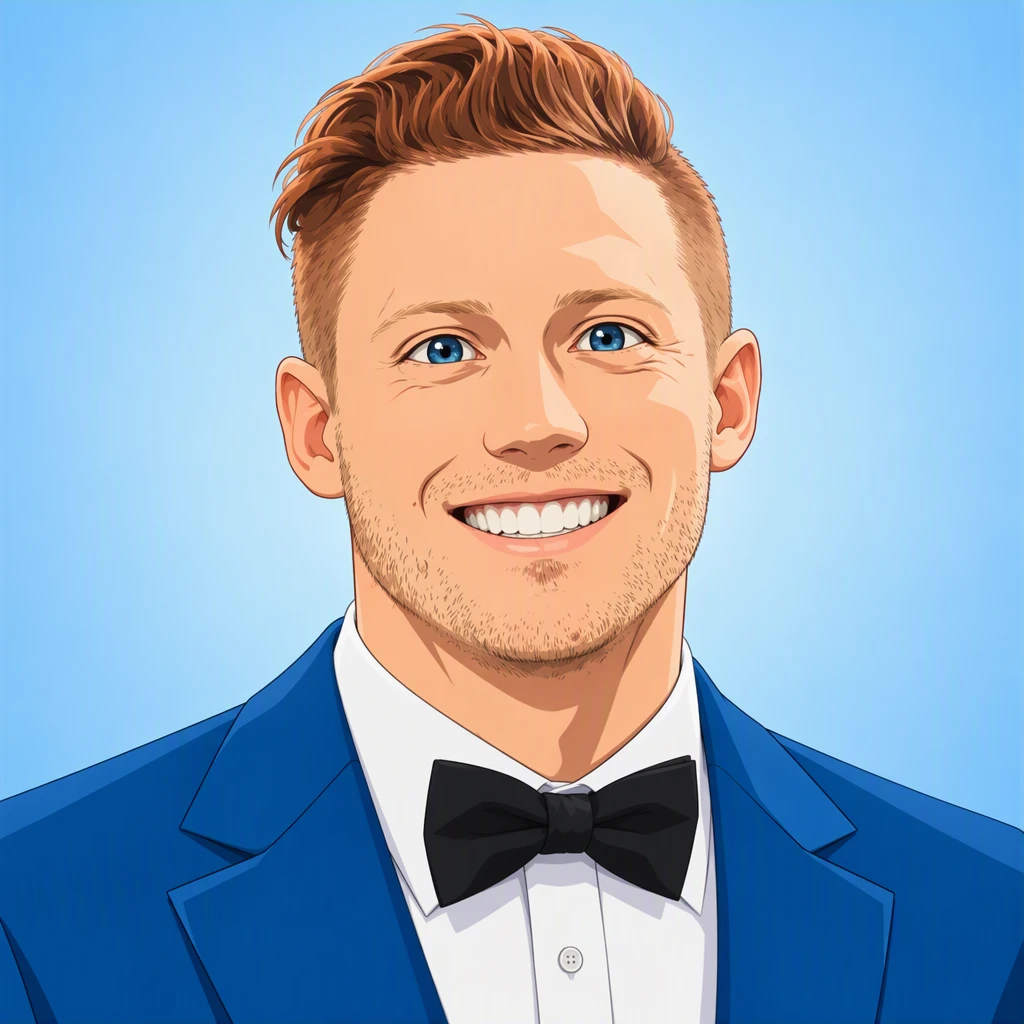
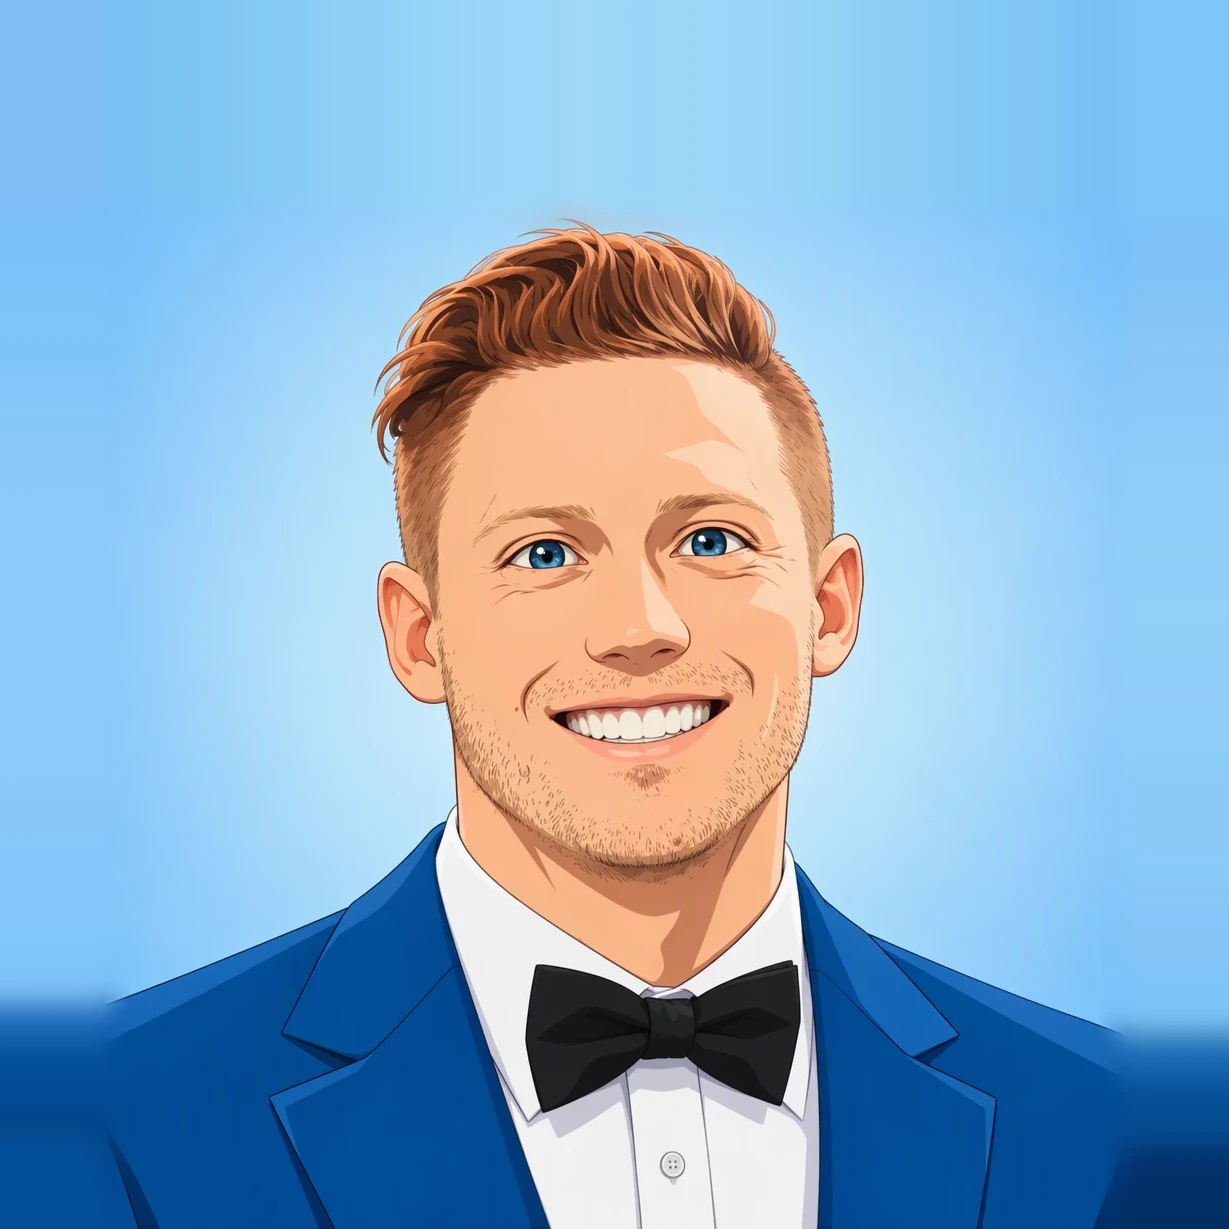
fix: zoom out the hero portrait to show the full head

diff --git a/src/app/page.tsx b/src/app/page.tsx
@@ -97,7 +97,8 @@ const stack = [
 
 /**
  * A raised diamond, turned 45deg like an infield, with the illustrated portrait kept
- * upright in an inset well and zoomed just enough to fill the diamond's corners.
+ * upright in an inset well and zoomed just enough to fill the diamond's corners. The
+ * image has extra background above and beside the figure so the whole head fits.
  */
 function Portrait() {
   return (
